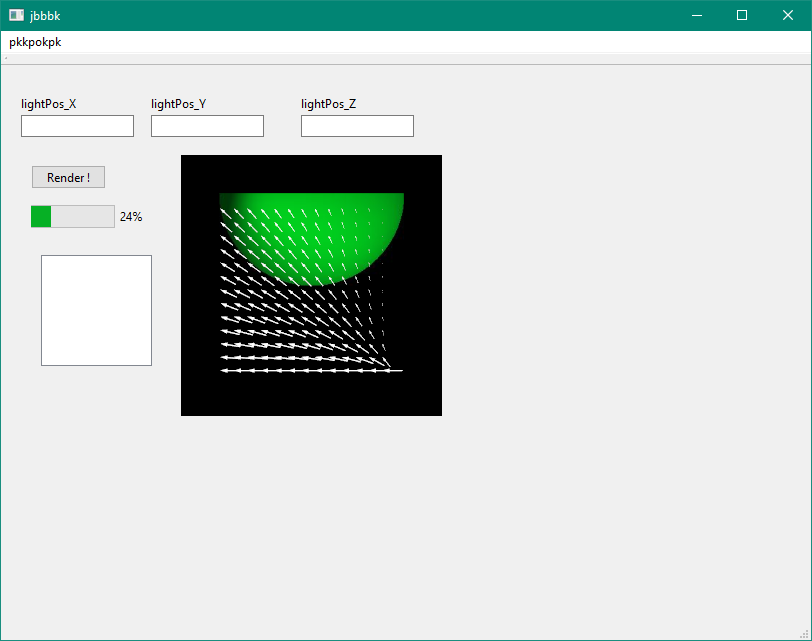
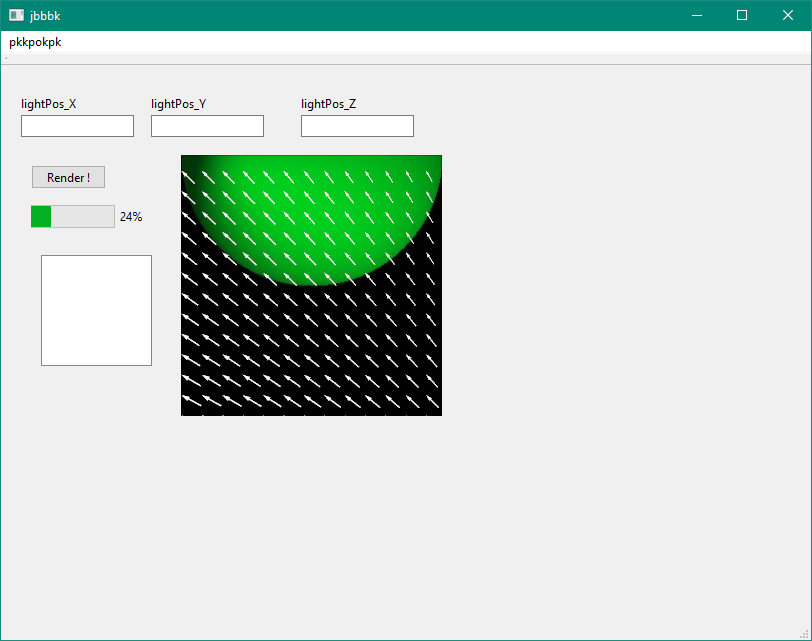
some more cleanup AND making the renderers of the background and vectorfield overlay cover the avaialble renderwindow space

Changed region(s): [[0.2155, 0.2184, 0.5542, 0.624]]

diff --git a/QtWidget_VtkSandbox.cpp b/QtWidget_VtkSandbox.cpp
@@ -107,30 +107,37 @@ void QtWidget_VtkSandbox::onRenderButtonClicked()
     //->arrows get smaller when vecFieldDims increase
     const double vectFieldDim_X{ 40.0 }; 
     //imageDataVectorField->SetDimensions(vectFieldDim_X, vectFieldDim_X / aspectRatio, 1);
-    imageDataVectorField->SetDimensions(imageData->GetDimensions());
+    const auto imageDimensions{ imageData->GetDimensions() };
+    std::cout << "imageDimensionsX: " << imageDimensions[0] << "\n";
+    std::cout << "imageDimensionsY: " << imageDimensions[1] << "\n";
+    std::cout << "imageDimensionsZ: " << imageDimensions[2] << "\n";
+    imageDataVectorField->SetDimensions(imageDimensions);
     imageDataVectorField->AllocateScalars(VTK_FLOAT, 3);
 
-    int* dims = imageDataVectorField->GetDimensions();
-    // Zero the image
-    bool flip{ true };
-    for (auto z = 0; z < dims[2]; ++z)
+    const auto vectorFieldDimensions{ imageDataVectorField->GetDimensions() };
+    constexpr auto samplingRateX{ 20 };
+    constexpr auto samplingRateY{ 20 };
+    constexpr auto arrowLengthScalingFactor{ 25 };
+    // fill the vectorfield
+    for (auto z = 0; z < vectorFieldDimensions[2]; ++z)
     {
-        for (auto y = 0; y < dims[1]; ++y)
+        for (auto y = 0; y < vectorFieldDimensions[1]; ++y)
         {
-            for (auto x = 0; x < dims[0]; ++x)
+            for (auto x = 0; x < vectorFieldDimensions[0]; ++x)
             {
                 //todo: instead of doing this manually, filter the (dense) vectorfield lateron
-                if (((x % 20 == 0) && (y % 20 == 0)))
+                if (((x % samplingRateX == 0) && (y % samplingRateY == 0)))
                 {
                     auto pixel = static_cast<float*>(imageDataVectorField->GetScalarPointer(x, y, z));
                     //todo sth is not yet correct wrt to calculating the vector to/from the lightsource
-                    double xcomponent = x - 256.0;
-                    double yComponent = y;
+                    double xcomponent = x - 512.0;
+                    double yComponent = y + 256;
+                    //todo: do these vectors (in the final vectorfield) really have to be normalized "manually" at this point?
                     double vectLenght{ std::sqrt(xcomponent * xcomponent + yComponent * yComponent) };
-                    pixel[0] = xcomponent / vectLenght * 30;//10;
-                    pixel[1] = yComponent / vectLenght * 30;//flip == true ? 5 : - 5;
+                    pixel[0] = xcomponent / vectLenght * arrowLengthScalingFactor;
+                    pixel[1] = yComponent / vectLenght * arrowLengthScalingFactor;
                     pixel[2] = 0;//todo: dont forget to take z component into account. somehow this seems to be ignored for the rendering of the arrows atm :(
-                    flip = !flip;
+                    
                 }
                 else
                 {
@@ -183,23 +190,44 @@ void QtWidget_VtkSandbox::onRenderButtonClicked()
     m_Renderer_fG->ResetCamera();
     m_RenderWindow->Render();
 
-    // setup bg camera to fill the renderer with the image
-    auto origin{ imageData->GetOrigin() };
-    auto spacing{ imageData->GetSpacing() };
-    auto extent{ imageData->GetExtent() };
 
-    auto camera{ m_Renderer_bG->GetActiveCamera() };
-    camera->ParallelProjectionOn();
+    auto origin_bG{ imageData->GetOrigin() };
+    auto spacing_bG{ imageData->GetSpacing() };
+    auto extent_bG{ imageData->GetExtent() };
 
-    auto xc{ origin[0] + 0.5 * (extent[0] + extent[1]) * spacing[0] };
-    auto yc{ origin[1] + 0.5 * (extent[2] + extent[3]) * spacing[1] };
+    //auto camera{ m_Renderer_bG->GetActiveCamera() };
+    auto camera_bG{ m_Renderer_bG->GetActiveCamera() };
+    camera_bG->ParallelProjectionOn();
 
-    auto yd{ (extent[3] - extent[2] + 1) * spacing[1] };
-    auto d{ camera->GetDistance() };
+    auto xc_bG{ origin_bG[0] + 0.5 * (extent_bG[0] + extent_bG[1]) * spacing_bG[0] };
+    auto yc_bG{ origin_bG[1] + 0.5 * (extent_bG[2] + extent_bG[3]) * spacing_bG[1] };
+
+    auto yd_bG{ (extent_bG[3] - extent_bG[2] + 1) * spacing_bG[1] };
+    auto d_bG{ camera_bG->GetDistance() };
     //this sets the background camera to cover all of the available openglwindow(space)
-    /*camera->SetParallelScale(0.5 * yd);
-    camera->SetFocalPoint(xc, yc, 0.0);
-    camera->SetPosition(xc, yc, d);*/
+    camera_bG->SetParallelScale(0.5 * yd_bG);
+    camera_bG->SetFocalPoint(xc_bG, yc_bG, 0.0);
+    camera_bG->SetPosition(xc_bG, yc_bG, d_bG);
+
+
+    // setup bg camera to fill the renderer with the image
+    auto origin_fG{ imageDataVectorField->GetOrigin() };
+    auto spacing_fG{ imageDataVectorField->GetSpacing() };
+    auto extent_fG{ imageDataVectorField->GetExtent() };
+
+    //auto camera{ m_Renderer_bG->GetActiveCamera() };
+    auto camera_fG{ m_Renderer_fG->GetActiveCamera() };
+    camera_fG->ParallelProjectionOn();
+
+    auto xc_fG{ origin_fG[0] + 0.5 * (extent_fG[0] + extent_fG[1]) * spacing_fG[0] };
+    auto yc_fG{ origin_fG[1] + 0.5 * (extent_fG[2] + extent_fG[3]) * spacing_fG[1] };
+
+    auto yd_fG{ (extent_fG[3] - extent_fG[2] + 1) * spacing_fG[1] };
+    auto d_fG{ camera_fG->GetDistance() };
+    //this sets the background camera to cover all of the available openglwindow(space)
+    camera_fG->SetParallelScale(0.5 * yd_fG);
+    camera_fG->SetFocalPoint(xc_fG, yc_fG, 0.0);
+    camera_fG->SetPosition(xc_fG, yc_fG, d_fG);
 
     
     m_RenderWindow->Render();
